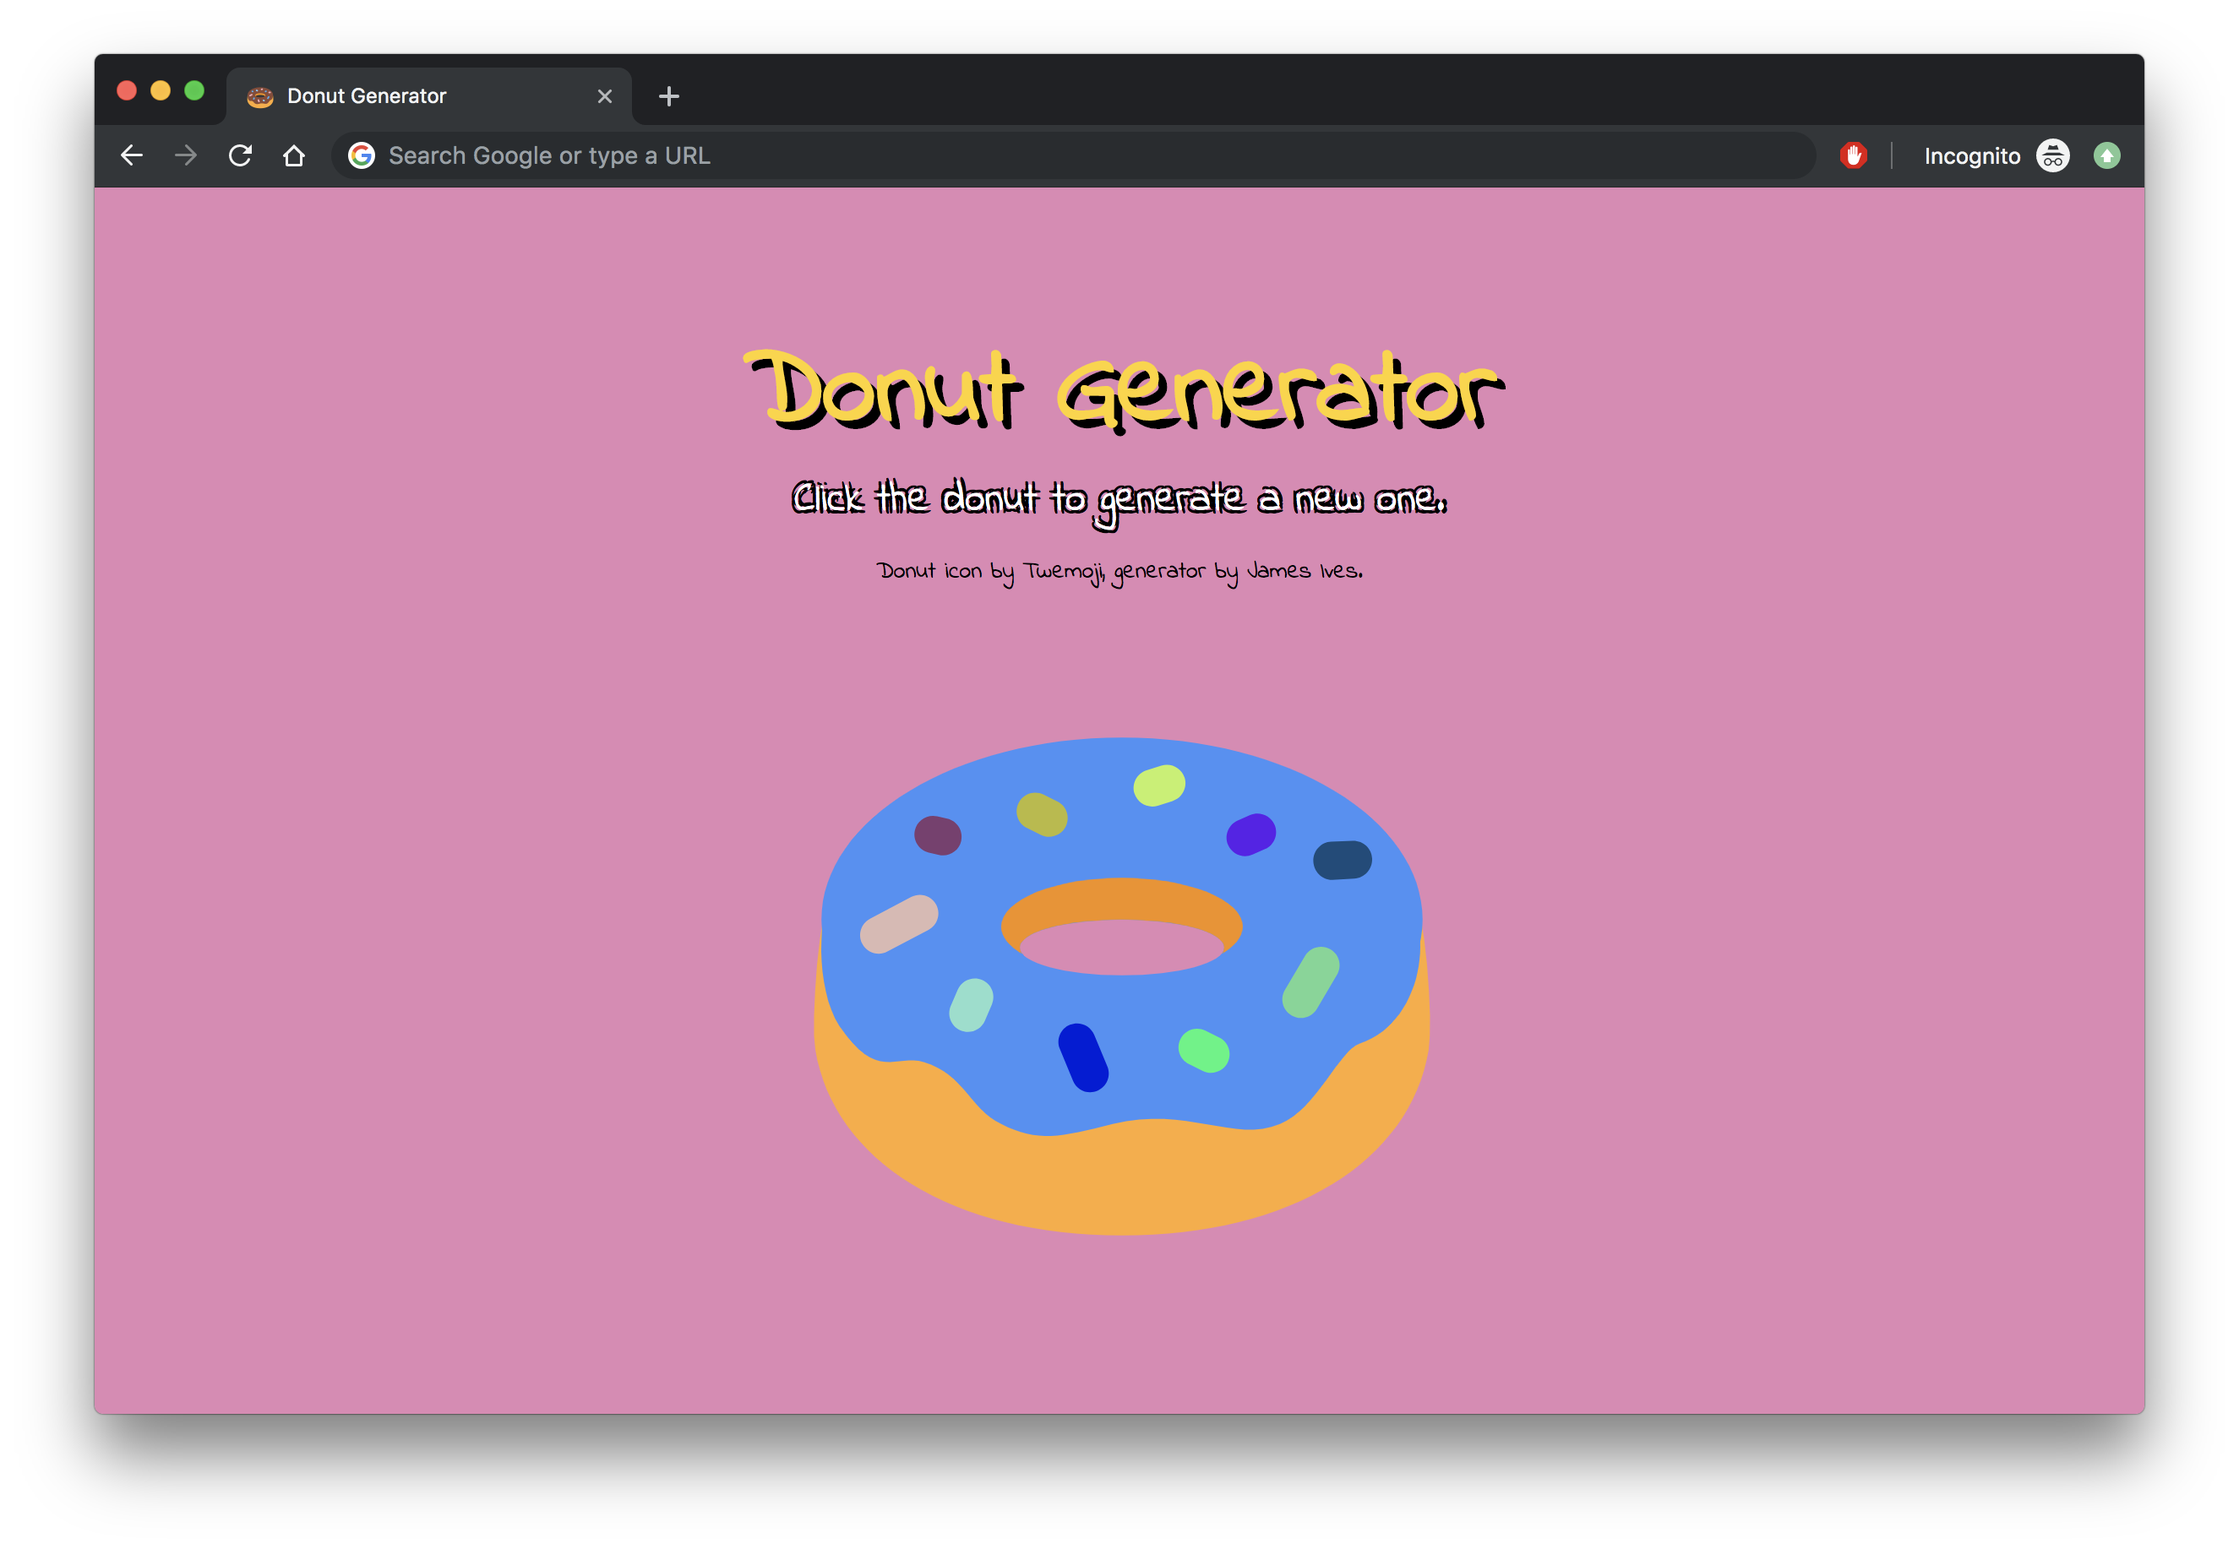
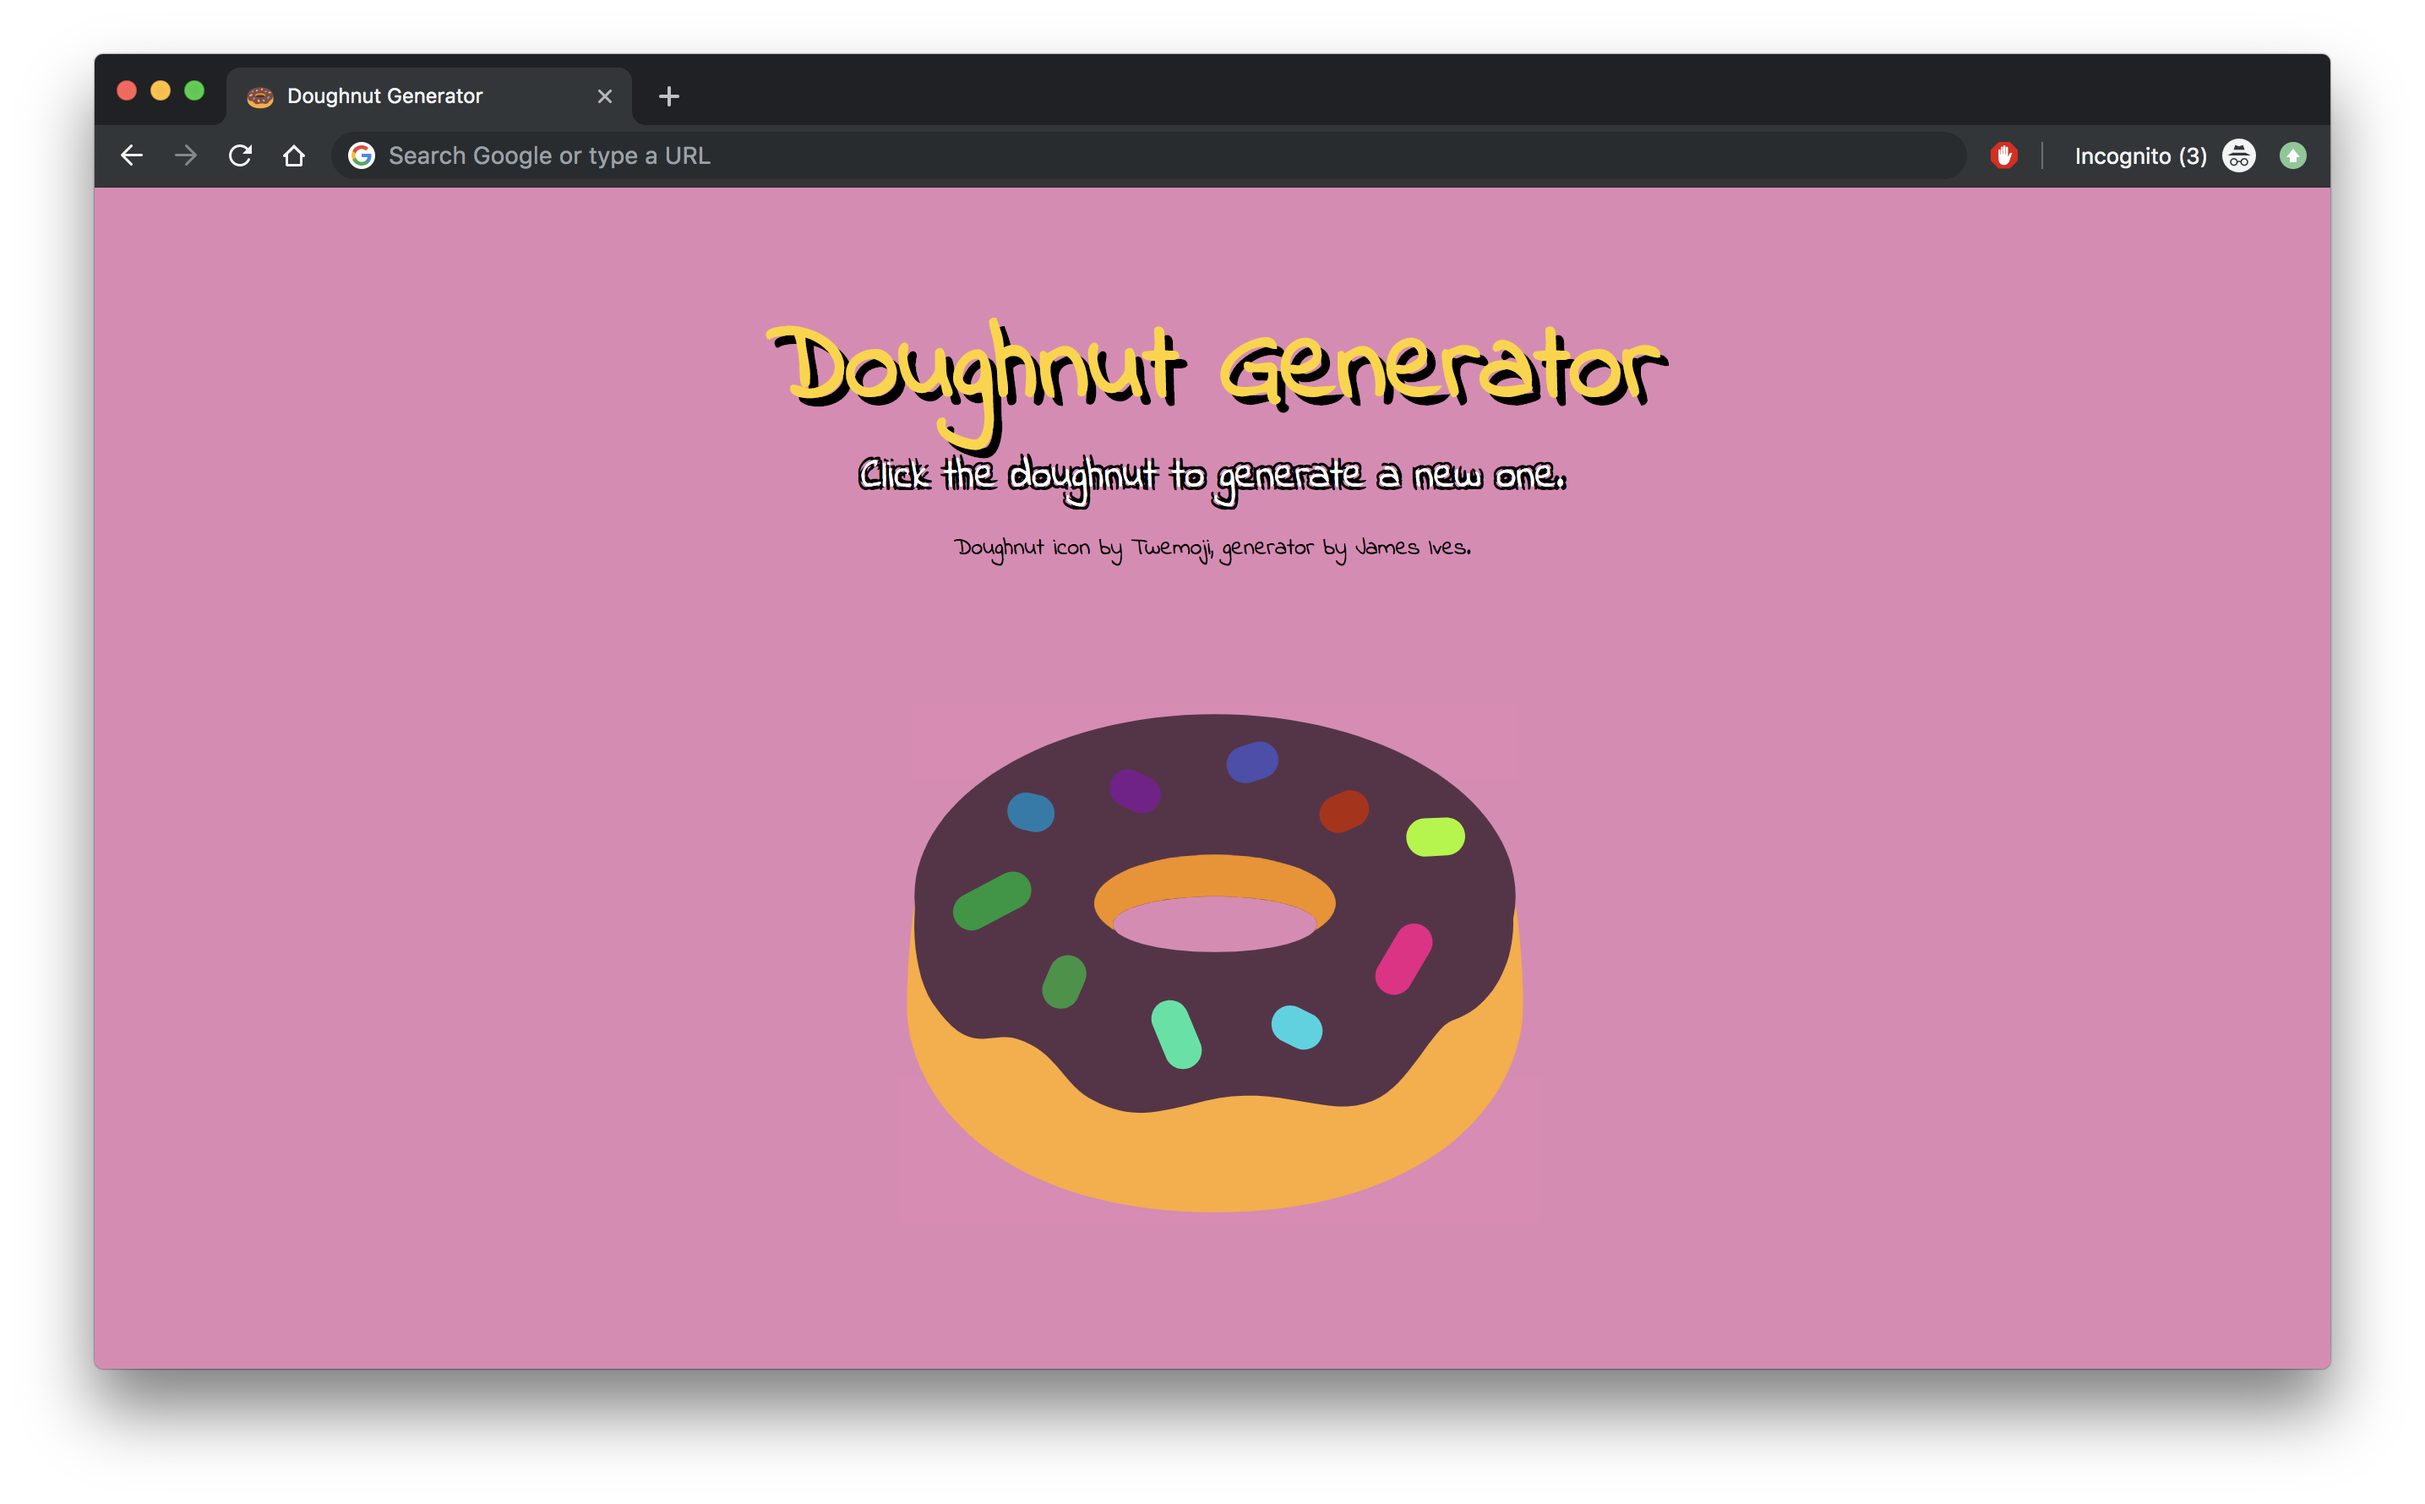
Init x2 :rocket:

diff --git a/script.js b/script.js
@@ -6,12 +6,12 @@ async function getColors(count) {
   return await response.json();
 }
 
-async function createDonut() {
+async function createDoughnut() {
   const data = await getColors(11);
 
-  // Consistent donut colors...
-  const donutInterior = "#f4900d";
-  const donutExterior = "#ffab33";
+  // Consistent doughnut colors...
+  const doughnutInterior = "#f4900d";
+  const doughnutExterior = "#ffab33";
 
   const svg = `
     <svg
@@ -29,7 +29,7 @@ async function createDonut() {
         <g id="g12">
           <g clip-path="url(#clipPath16)" id="g14">
             <g transform="translate(36.3369,13.4512)" id="g20">
-              <path id="path22" style="fill:${donutExterior};fill-opacity:1;fill-rule:nonzero;stroke:none" d="m 0,0 c -1.046,-6.271 -7.722,-10.451 -17.245,-10.451 -9.523,0 -16.198,4.18 -17.243,10.451 -0.247,1.479 0.156,8.12 1.054,9.406 2.559,3.663 3.474,-10.365 16.189,-10.365 13.848,0 13.641,14.028 16.199,10.365 C -0.147,8.12 0.246,1.479 0,0"/>
+              <path id="path22" style="fill:${doughnutExterior};fill-opacity:1;fill-rule:nonzero;stroke:none" d="m 0,0 c -1.046,-6.271 -7.722,-10.451 -17.245,-10.451 -9.523,0 -16.198,4.18 -17.243,10.451 -0.247,1.479 0.156,8.12 1.054,9.406 2.559,3.663 3.474,-10.365 16.189,-10.365 13.848,0 13.641,14.028 16.199,10.365 C -0.147,8.12 0.246,1.479 0,0"/>
             </g>
             <g transform="translate(19.0923,17.6309)" id="g24">
               <path id="path26" style="fill:${
@@ -42,7 +42,7 @@ async function createDonut() {
               };fill-opacity:1;fill-rule:nonzero;stroke:none" d="m 0,0 c -0.653,-1.045 -0.92,-5.494 0.479,-7.577 2.134,-3.179 3.178,-1.567 4.746,-2.047 2.335,-0.714 2.508,-2.559 4.355,-3.483 2.09,-1.045 3.305,-0.741 6.27,0 4.181,1.045 6.837,-1.088 9.405,0 2.106,0.893 3.311,4.137 4.486,4.528 3.728,1.243 4.515,7.124 1.741,9.537 -0.87,-1.829 -5.137,-8.404 -7.88,-8.709 -2.745,-0.305 -10.974,-1 -14.457,0.784 C 5.661,-5.182 2.134,-2.961 1.698,-2.352 1.263,-1.742 0,0 0,0"/>
             </g>
             <g transform="translate(19.0923,23.1177)" id="g32">
-              <path id="path34" style="fill:${donutInterior};fill-opacity:1;fill-rule:nonzero;stroke:none" d="m 0,0 c -3.752,0 -6.793,-1.228 -6.793,-2.743 0,-0.59 0.463,-1.133 1.245,-1.58 -0.126,0.13 -0.2,0.264 -0.2,0.404 0,0.866 2.574,1.567 5.748,1.567 3.173,0 5.748,-0.701 5.748,-1.567 0,-0.14 -0.074,-0.274 -0.201,-0.404 0.783,0.447 1.246,0.99 1.246,1.58 C 6.793,-1.228 3.751,0 0,0"/>
+              <path id="path34" style="fill:${doughnutInterior};fill-opacity:1;fill-rule:nonzero;stroke:none" d="m 0,0 c -3.752,0 -6.793,-1.228 -6.793,-2.743 0,-0.59 0.463,-1.133 1.245,-1.58 -0.126,0.13 -0.2,0.264 -0.2,0.404 0,0.866 2.574,1.567 5.748,1.567 3.173,0 5.748,-0.701 5.748,-1.567 0,-0.14 -0.074,-0.274 -0.201,-0.404 0.783,0.447 1.246,0.99 1.246,1.58 C 6.793,-1.228 3.751,0 0,0"/>
             </g>
             <g transform="translate(5.4199,18.8496)" id="g36">
               <path id="path38" style="fill:${
@@ -100,15 +100,15 @@ async function createDonut() {
     </svg>
     `;
 
-  return (document.getElementById("donut").innerHTML = svg);
+  return (document.getElementById("doughnut").innerHTML = svg);
 }
 
 window.onload = function() {
-  // Loads the initial donut.
-  createDonut();
+  // Loads the initial doughnut.
+  createDoughnut();
 
   // Binds the the onclick listener.
-  document.getElementById("donut").addEventListener("click", function() {
-    return createDonut();
+  document.getElementById("doughnut").addEventListener("click", function() {
+    return createDoughnut();
   });
 };

diff --git a/index.html b/index.html
@@ -2,8 +2,8 @@
   <head>
     <meta charset="utf-8">
     <meta name="viewport" content="width=device-width,minimum-scale=1">
-    <meta name="description" content="Generates a Donut!" />
-    <title>Donut Generator</title>
+    <meta name="description" content="Generates a Doughnut!" />
+    <title>Doughnut Generator</title>
 
     <link href="https://fonts.googleapis.com/css?family=Indie+Flower&display=swap" rel="stylesheet">
     <link rel="apple-touch-icon" sizes="180x180" href="./images/apple-touch-icon.png">
@@ -15,10 +15,10 @@
   </head>
   <body>
     <div class="wrapper">
-    <h1>Donut Generator</h1>
-    <p class="info">Click the Donut to generate a new one.</p>
-    <p class="disclaimer">Donut icon by <a href="https://twemoji.twitter.com/">Twemoji</a>, generator by <a href="https://jamesiv.es">James Ives</a>.</p>
-    <div id="donut">
+    <h1>Doughnut Generator</h1>
+    <p class="info">Click the doughnut to generate a new one.</p>
+    <p class="disclaimer">Doughnut icon by <a href="https://twemoji.twitter.com/">Twemoji</a>, generator by <a href="https://jamesiv.es">James Ives</a>.</p>
+    <div id="doughnut">
   </div>
   </body>
 </html>

diff --git a/style.css b/style.css
@@ -1,6 +1,8 @@
 body {
   background-color: #e287b5;
   font-family: 'Indie Flower', cursive;
+  margin: 0;
+  padding: 0;
 }
 
 h1 {
@@ -21,7 +23,7 @@ a, a:focus, a:visited {
   text-decoration: none;
 }
 
-#donut {
+#doughnut {
   user-select: none;
 }
 

diff --git a/README.md b/README.md
@@ -1,5 +1,5 @@
-# Donut Generator 🍩
-Generates a new Donut with every click. 
+# Doughnut Generator 🍩
+Dynamically generates a new Doughnut with every click.
 
 ## Installation Steps 💽
 
@@ -7,8 +7,9 @@ Simply clone the repository and open the `index.html` file. Alternatively you ca
 
 ## Credits 💬
 
+<img align="left" width="50" height="50" src="https://user-images.githubusercontent.com/212941/59163439-23c05900-8ab6-11e9-8764-977334c7bba8.png">
+
 Created using the [Twemoji](https://twemoji.twitter.com/) Donut icon, and [Github's Hexbot API](https://noopschallenge.com/challenges/hexbot) for their Meet the [NOOPS challenge](https://noopschallenge.com/).
 
-<img align="right" width="300" height="300" src="https://user-images.githubusercontent.com/212941/59163439-23c05900-8ab6-11e9-8764-977334c7bba8.png">
 
-![Screenshot]
+![Screenshot](./images/screenshot.png)
